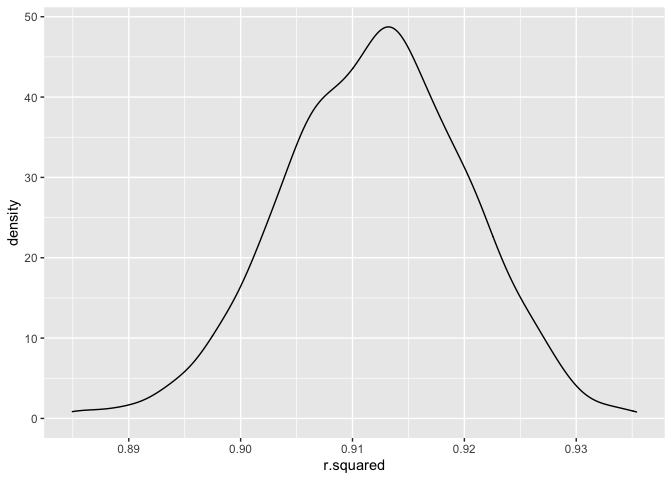
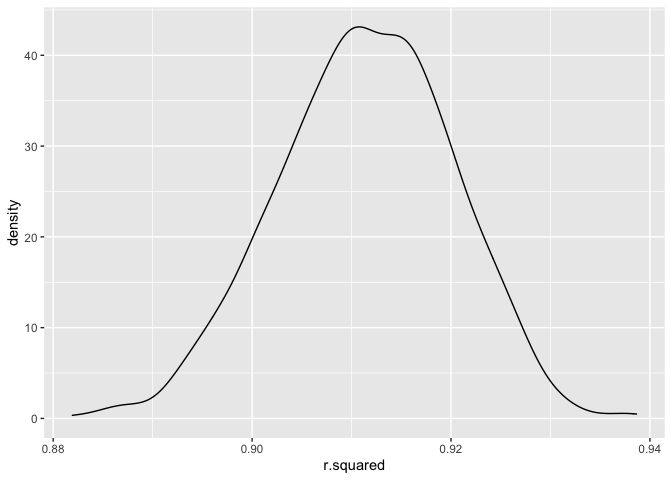
Problem 2 - added plots

diff --git a/p8105_hw6_tjs2193.md b/p8105_hw6_tjs2193.md
@@ -62,7 +62,7 @@ quantile(rsq_bootstrap$r.squared, c(0.025, 0.975))
 ```
 
     ##      2.5%     97.5% 
-    ## 0.8929411 0.9271568
+    ## 0.8942312 0.9262429
 
 The distribution of r-squared estimates shows a slight left skew and is
 rather narrow. The estimated 95% confidence interval is (0.8937494,
@@ -113,7 +113,7 @@ quantile(log_betas_bootstrap$log_b0b1, c(0.025, 0.975))
 ```
 
     ##     2.5%    97.5% 
-    ## 1.967589 2.057139
+    ## 1.963753 2.059984
 
 Similar to the r-squared plot, this plot shows a slight left skew. The
 95% confidence interval for this estimate is (1.962837, 2.059418), but
@@ -209,3 +209,25 @@ city_state_log
     ## 10 Cincinnati, OH  victim_sexMale  0.917     2.50  1.48   4.24
     ## # … with 37 more rows
     ## # ℹ Use `print(n = ...)` to see more rows
+
+### Plot of OR’s and their 95% CI by city.
+
+``` r
+OR_plot =
+city_state_log %>%
+  ggplot(., aes (y = reorder(city_state, -OR), x= OR)) +
+      geom_point(shape = 19, size=1) +
+      geom_errorbarh(aes(xmin = LCI, xmax = UCI, height = 0.25)) +
+      geom_vline(xintercept = 1, color = "purple", alpha = 0.5) 
+
+OR_plot
+```
+
+![](p8105_hw6_tjs2193_files/figure-gfm/unnamed-chunk-8-1.png)<!-- -->
+
+This plot shows the odds ratios comparing odds of a male victim having
+their homicide go unsolved versus a female victim, by city. Looking at
+this plot, we can see that most of the odds ratio were not significant.
+Male victims tended to have higher odds of having their homicide go
+unsolved across cities. New York City boasted the largest odds ratio,
+but also had a fairly large confidence interval.
